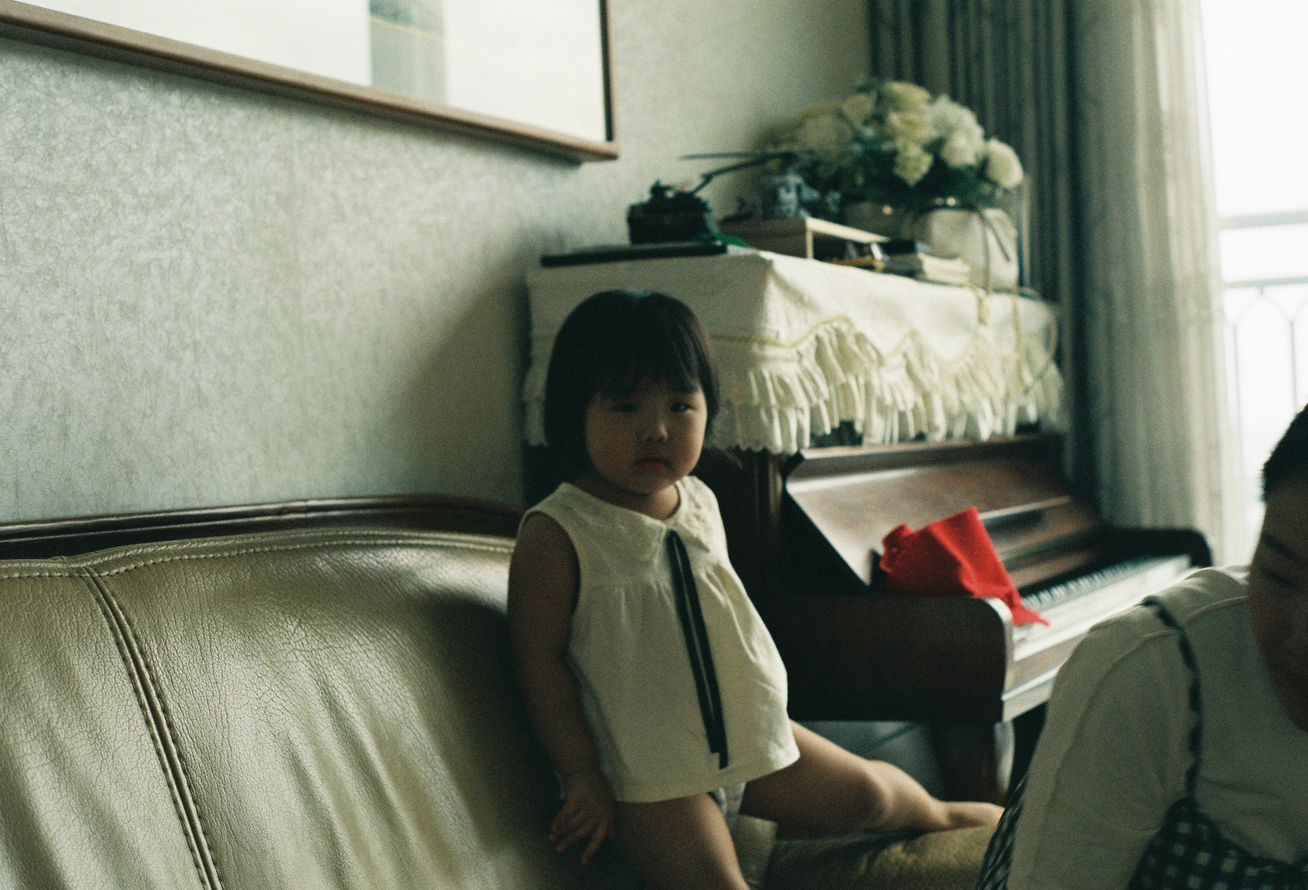
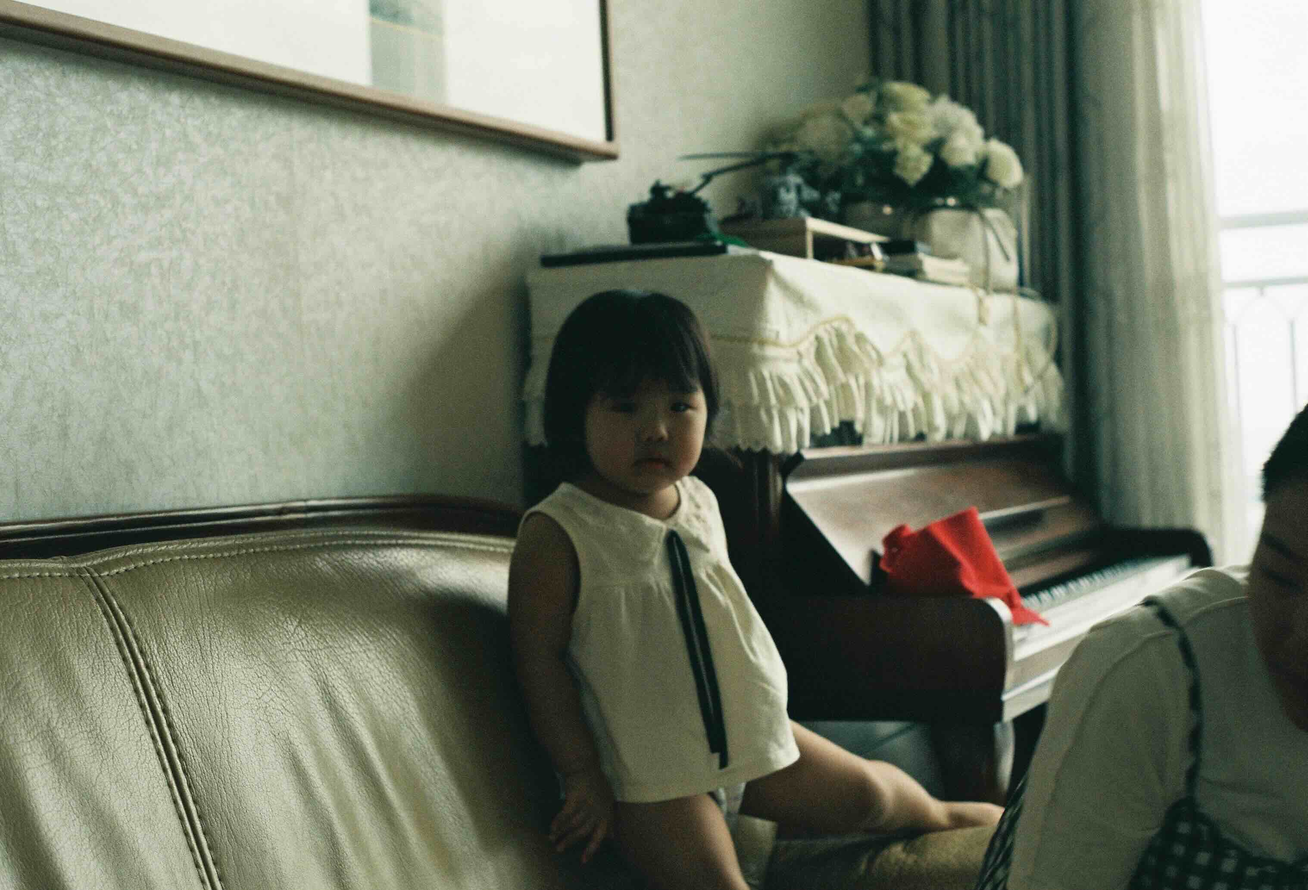
replace imgs lighter

Changed region(s): [[0.0929, 0.7125, 0.1858, 0.9293]]

diff --git a/landscape.html b/landscape.html
@@ -27,7 +27,7 @@
 
         <!-- 슬라이드 이미지 -->
         <div class="slider">
-            <img src="./photo/landscape_image1.png" alt="Image 1" class="slide active">
+            <img src="./photo/landscape_image1.jpg" alt="Image 1" class="slide active">
             <img src="./photo/landscape_image2.jpg" alt="Image 2" class="slide">
             <img src="./photo/landscape_image3.jpg" alt="Image 3" class="slide">
             <img src="./photo/landscape_image4.jpg" alt="Image 4" class="slide">

diff --git a/portrait.html b/portrait.html
@@ -27,7 +27,7 @@
 
         <!-- 슬라이드 이미지 -->
         <div class="slider">
-            <img src="./photo/portrait_image1.jpg" alt="Image 1" class="slide active">
+            <img src="./photo/portrait_image1.jpg" alt="Image 1" class="slide active" id="left-image">
             <img src="./photo/portrait_image2.jpg" alt="Image 2" class="slide">
             <img src="./photo/portrait_image3.jpg" alt="Image 3" class="slide">
         </div>

diff --git a/styles.css b/styles.css
@@ -223,4 +223,8 @@ header {
     .dropdown-content {
         min-width: 120px;
     }
+
+    #left-image {
+        object-position: left center;  /* 왼쪽을 기준으로 */
+    }
 }
